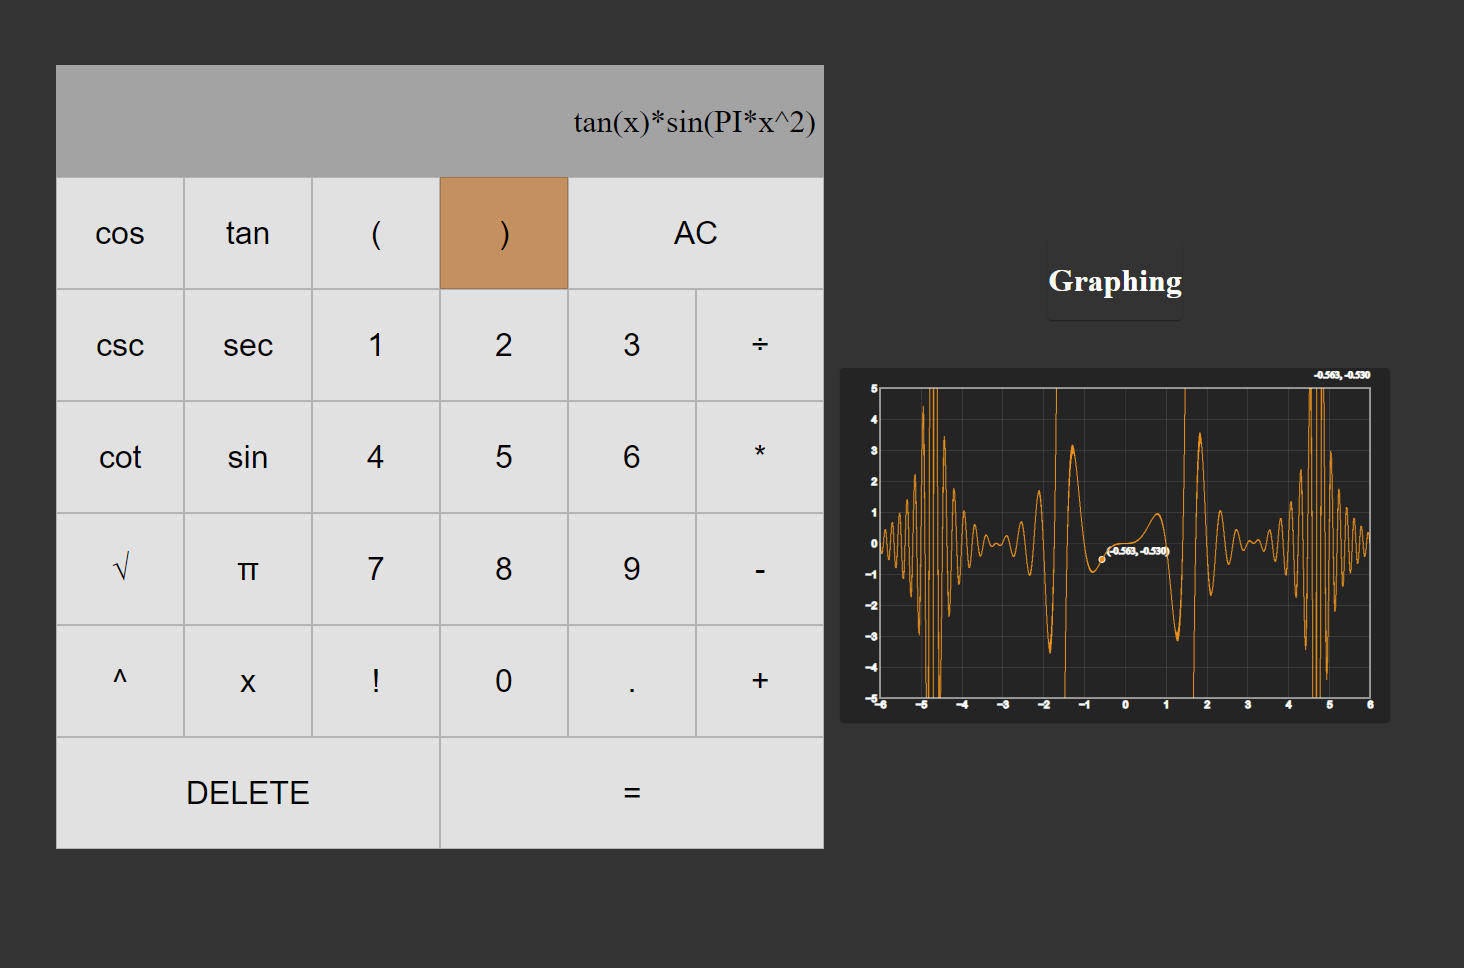
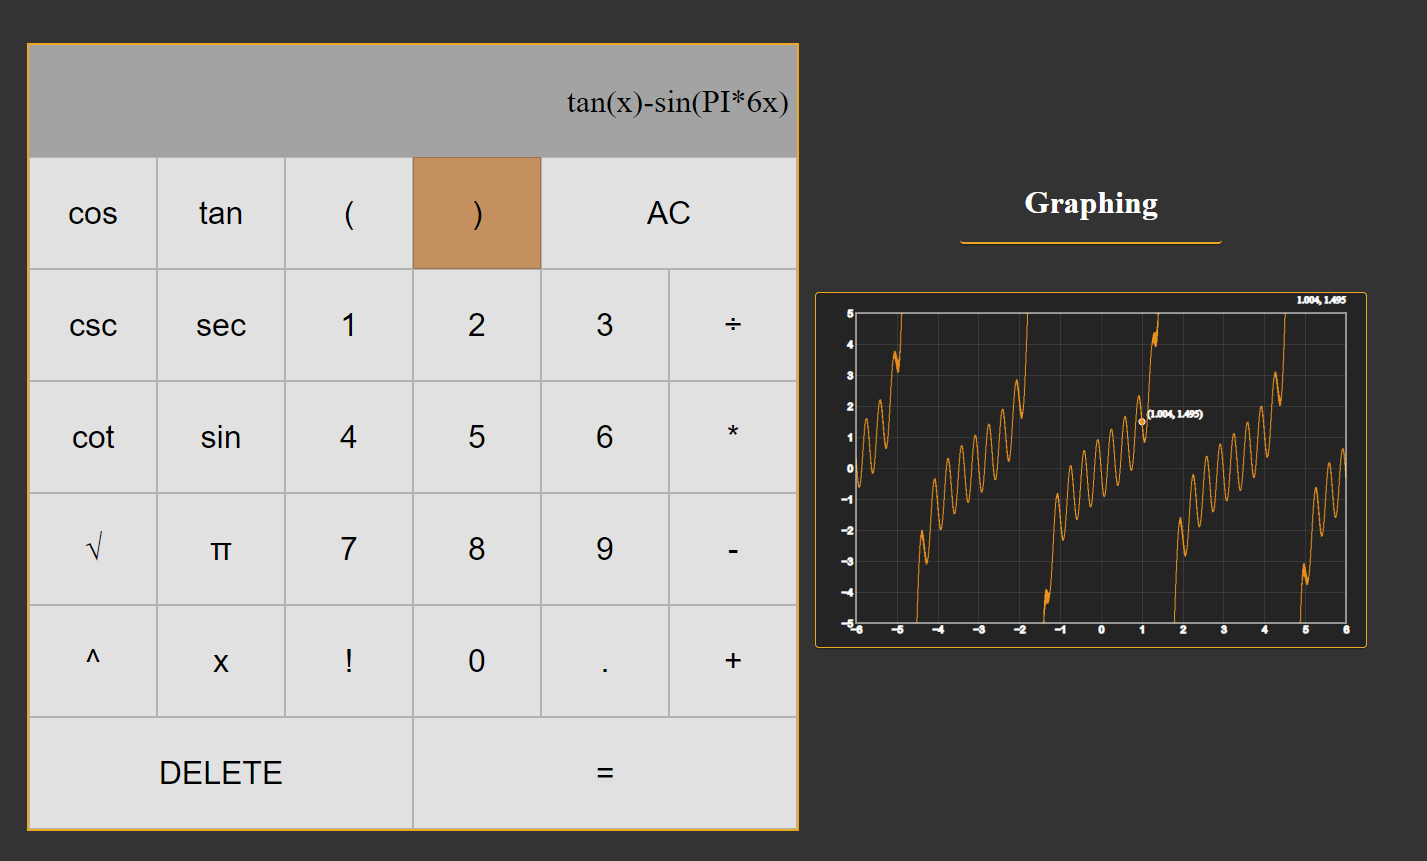
Borders
Added borders to graph and calculator

diff --git a/src/components/calculator/Calculator.js b/src/components/calculator/Calculator.js
@@ -8,69 +8,71 @@ import PropTypes from "prop-types";
 // Calculator UI
 const Calculator = ({ operand, dispatch }) => {
   return (
-    <div className="calculator-grid">
-      <Box className="output">
-        <div className="operand">{operand}</div>
-      </Box>
+    <Box sx={{border: 2, borderColor: "orange", marginTop: "5rem"}}>
+      <div className="calculator-grid">
+        <Box className="output">
+          <div className="operand">{operand}</div>
+        </Box>
 
-      {/* Row 1 */}
-      <CalculatorButton digit="cos" dispatch={dispatch} />
-      <CalculatorButton digit="tan" dispatch={dispatch} />
-      <CalculatorButton digit="(" dispatch={dispatch} />
-      <CalculatorButton digit=")" dispatch={dispatch} />
-      <button
-        className="span-two"
-        onClick={() => dispatch({ type: ACTIONS.CLEAR })}
-      >
-        AC
-      </button>
+        {/* Row 1 */}
+        <CalculatorButton digit="cos" dispatch={dispatch} />
+        <CalculatorButton digit="tan" dispatch={dispatch} />
+        <CalculatorButton digit="(" dispatch={dispatch} />
+        <CalculatorButton digit=")" dispatch={dispatch} />
+        <button
+          className="span-two"
+          onClick={() => dispatch({ type: ACTIONS.CLEAR })}
+        >
+          AC
+        </button>
 
-      {/* Row 2 */}
-      <CalculatorButton digit="csc" dispatch={dispatch} />
-      <CalculatorButton digit="sec" dispatch={dispatch} />
-      <CalculatorButton digit="1" dispatch={dispatch} />
-      <CalculatorButton digit="2" dispatch={dispatch} />
-      <CalculatorButton digit="3" dispatch={dispatch} />
-      <CalculatorButton digit="÷" dispatch={dispatch} />
+        {/* Row 2 */}
+        <CalculatorButton digit="csc" dispatch={dispatch} />
+        <CalculatorButton digit="sec" dispatch={dispatch} />
+        <CalculatorButton digit="1" dispatch={dispatch} />
+        <CalculatorButton digit="2" dispatch={dispatch} />
+        <CalculatorButton digit="3" dispatch={dispatch} />
+        <CalculatorButton digit="÷" dispatch={dispatch} />
 
-      {/* Row 3 */}
-      <CalculatorButton digit="cot" dispatch={dispatch} />
-      <CalculatorButton digit="sin" dispatch={dispatch} />
-      <CalculatorButton digit="4" dispatch={dispatch} />
-      <CalculatorButton digit="5" dispatch={dispatch} />
-      <CalculatorButton digit="6" dispatch={dispatch} />
-      <CalculatorButton digit="*" dispatch={dispatch} />
+        {/* Row 3 */}
+        <CalculatorButton digit="cot" dispatch={dispatch} />
+        <CalculatorButton digit="sin" dispatch={dispatch} />
+        <CalculatorButton digit="4" dispatch={dispatch} />
+        <CalculatorButton digit="5" dispatch={dispatch} />
+        <CalculatorButton digit="6" dispatch={dispatch} />
+        <CalculatorButton digit="*" dispatch={dispatch} />
 
-      {/* Row 4 */}
-      <CalculatorButton digit="√" dispatch={dispatch} />
-      <CalculatorButton digit="π" dispatch={dispatch} />
-      <CalculatorButton digit="7" dispatch={dispatch} />
-      <CalculatorButton digit="8" dispatch={dispatch} />
-      <CalculatorButton digit="9" dispatch={dispatch} />
-      <CalculatorButton digit="-" dispatch={dispatch} />
+        {/* Row 4 */}
+        <CalculatorButton digit="√" dispatch={dispatch} />
+        <CalculatorButton digit="π" dispatch={dispatch} />
+        <CalculatorButton digit="7" dispatch={dispatch} />
+        <CalculatorButton digit="8" dispatch={dispatch} />
+        <CalculatorButton digit="9" dispatch={dispatch} />
+        <CalculatorButton digit="-" dispatch={dispatch} />
 
-      {/* Row 5 */}
-      <CalculatorButton digit="^" dispatch={dispatch} />
-      <CalculatorButton digit="x" dispatch={dispatch} />
-      <CalculatorButton digit="!" dispatch={dispatch} />
-      <CalculatorButton digit="0" dispatch={dispatch} />
-      <CalculatorButton digit="." dispatch={dispatch} />
-      <CalculatorButton digit="+" dispatch={dispatch} />
+        {/* Row 5 */}
+        <CalculatorButton digit="^" dispatch={dispatch} />
+        <CalculatorButton digit="x" dispatch={dispatch} />
+        <CalculatorButton digit="!" dispatch={dispatch} />
+        <CalculatorButton digit="0" dispatch={dispatch} />
+        <CalculatorButton digit="." dispatch={dispatch} />
+        <CalculatorButton digit="+" dispatch={dispatch} />
 
-      {/* Row 6 */}
-      <button
-        className="span-three"
-        onClick={() => dispatch({ type: ACTIONS.DELETE_DIGIT })}
-      >
-        DELETE
-      </button>
-      <button
-        className="span-three"
-        onClick={() => dispatch({ type: ACTIONS.SOLVE })}
-      >
-        =
-      </button>
-    </div>
+        {/* Row 6 */}
+        <button
+          className="span-three"
+          onClick={() => dispatch({ type: ACTIONS.DELETE_DIGIT })}
+        >
+          DELETE
+        </button>
+        <button
+          className="span-three"
+          onClick={() => dispatch({ type: ACTIONS.SOLVE })}
+        >
+          =
+        </button>
+      </div>
+    </Box>
   );
 };
 

diff --git a/src/components/graph/Graph.js b/src/components/graph/Graph.js
@@ -1,7 +1,7 @@
 import { Box, Card } from "@mui/material";
 import PropTypes from "prop-types";
 import Plot from "./Plot";
-import "./graph.css"
+import "./graph.css";
 
 // Graph UI
 const Graph = ({ operand }) => {
@@ -15,7 +15,17 @@ const Graph = ({ operand }) => {
         flexDirection: "column",
       }}
     >
-      <Card sx={{margin: "2rem", color: "white", backgroundColor: "rgba(0, 0, 0, 0)"}}>
+      <Card
+        sx={{
+          margin: "2rem",
+          color: "white",
+          backgroundColor: "rgba(0, 0, 0, 0)",
+          borderBottom: 2,
+          borderColor: "orange",
+          paddingLeft: "4rem",
+          paddingRight: "4rem",
+        }}
+      >
         <h1>Graphing</h1>
       </Card>
 
@@ -25,7 +35,9 @@ const Graph = ({ operand }) => {
           color: "rgb(255, 255, 255)",
           stroke: "rgb(255, 255, 255)",
           margin: "1rem",
-          backgroundColor: "rgba(0, 0, 0, .3)"   
+          backgroundColor: "rgba(0, 0, 0, .3)",
+          border: 1,
+          borderColor: "orange",
         }}
       >
         <Plot

diff --git a/src/components/calculator/calculator.css b/src/components/calculator/calculator.css
@@ -5,10 +5,9 @@
 
 .calculator-grid {
   display: grid;
-  margin-top: 5rem;
   justify-content: center;
   grid-template-columns: repeat(6, 8rem);
-  grid-template-rows: minmax(7rem, auto) repeat(7, 7rem);
+  grid-template-rows: minmax(7rem, auto) repeat(6, 7rem);
 }
 
 .calculator-grid > button {
